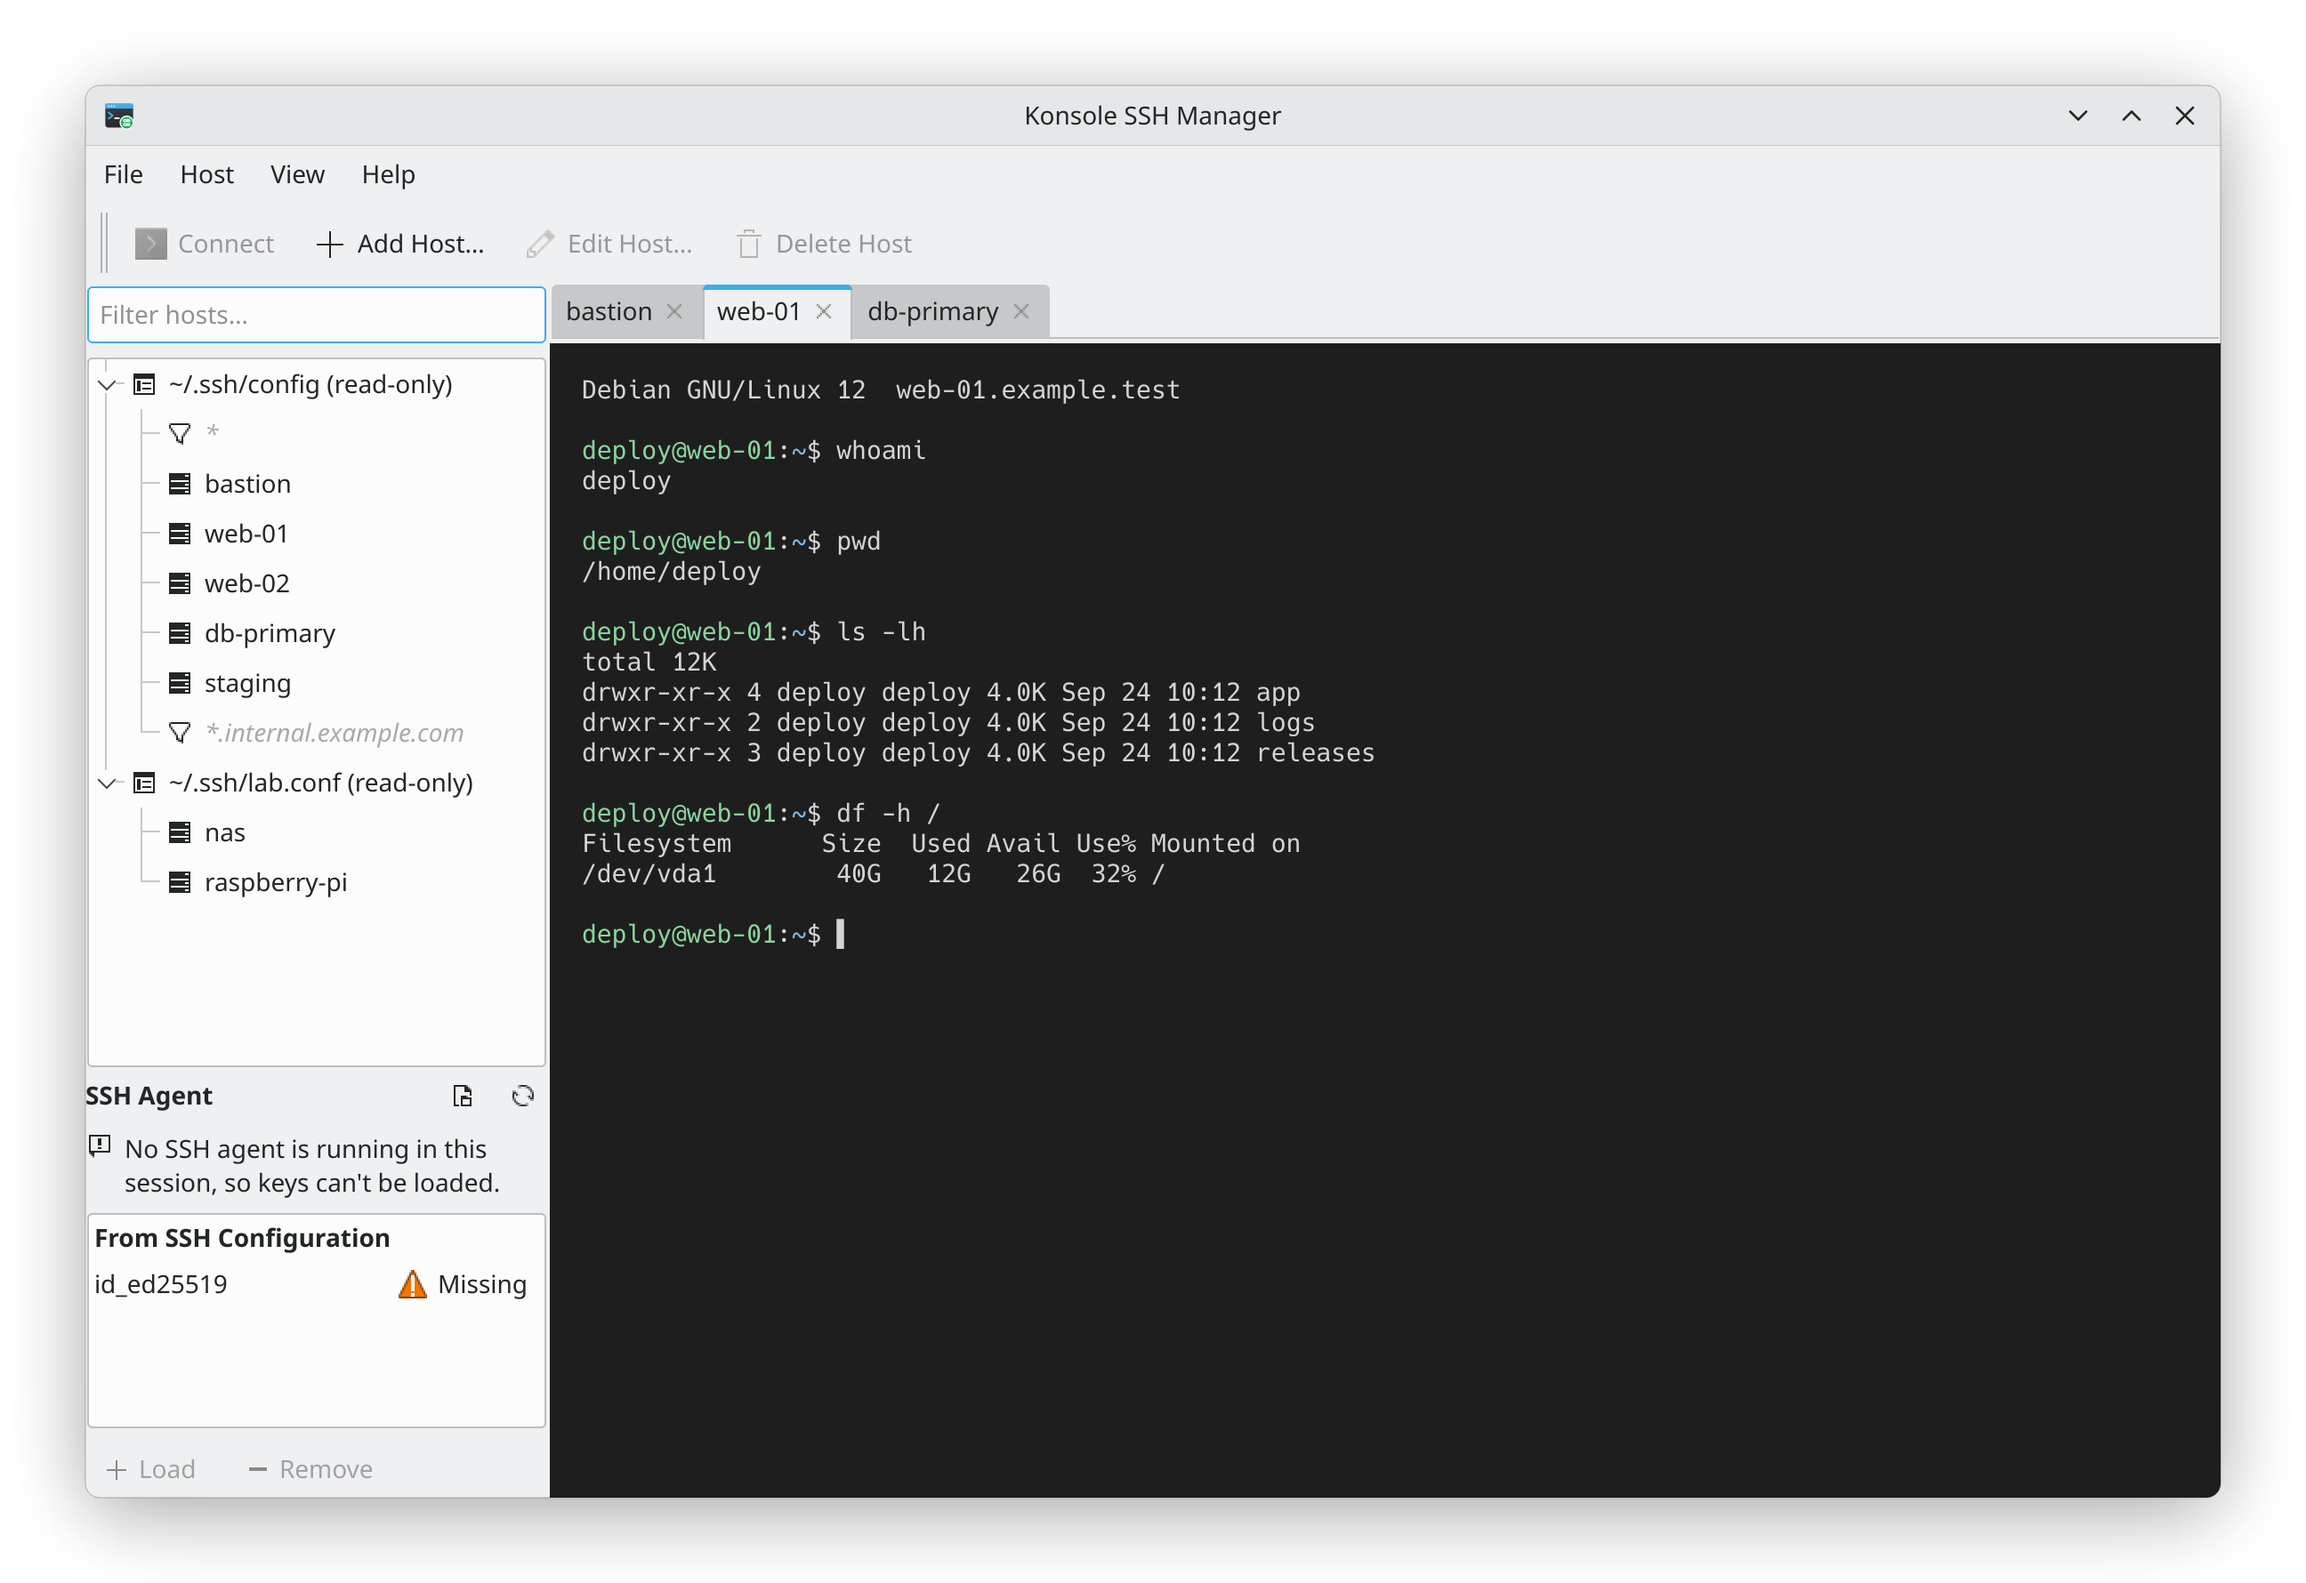
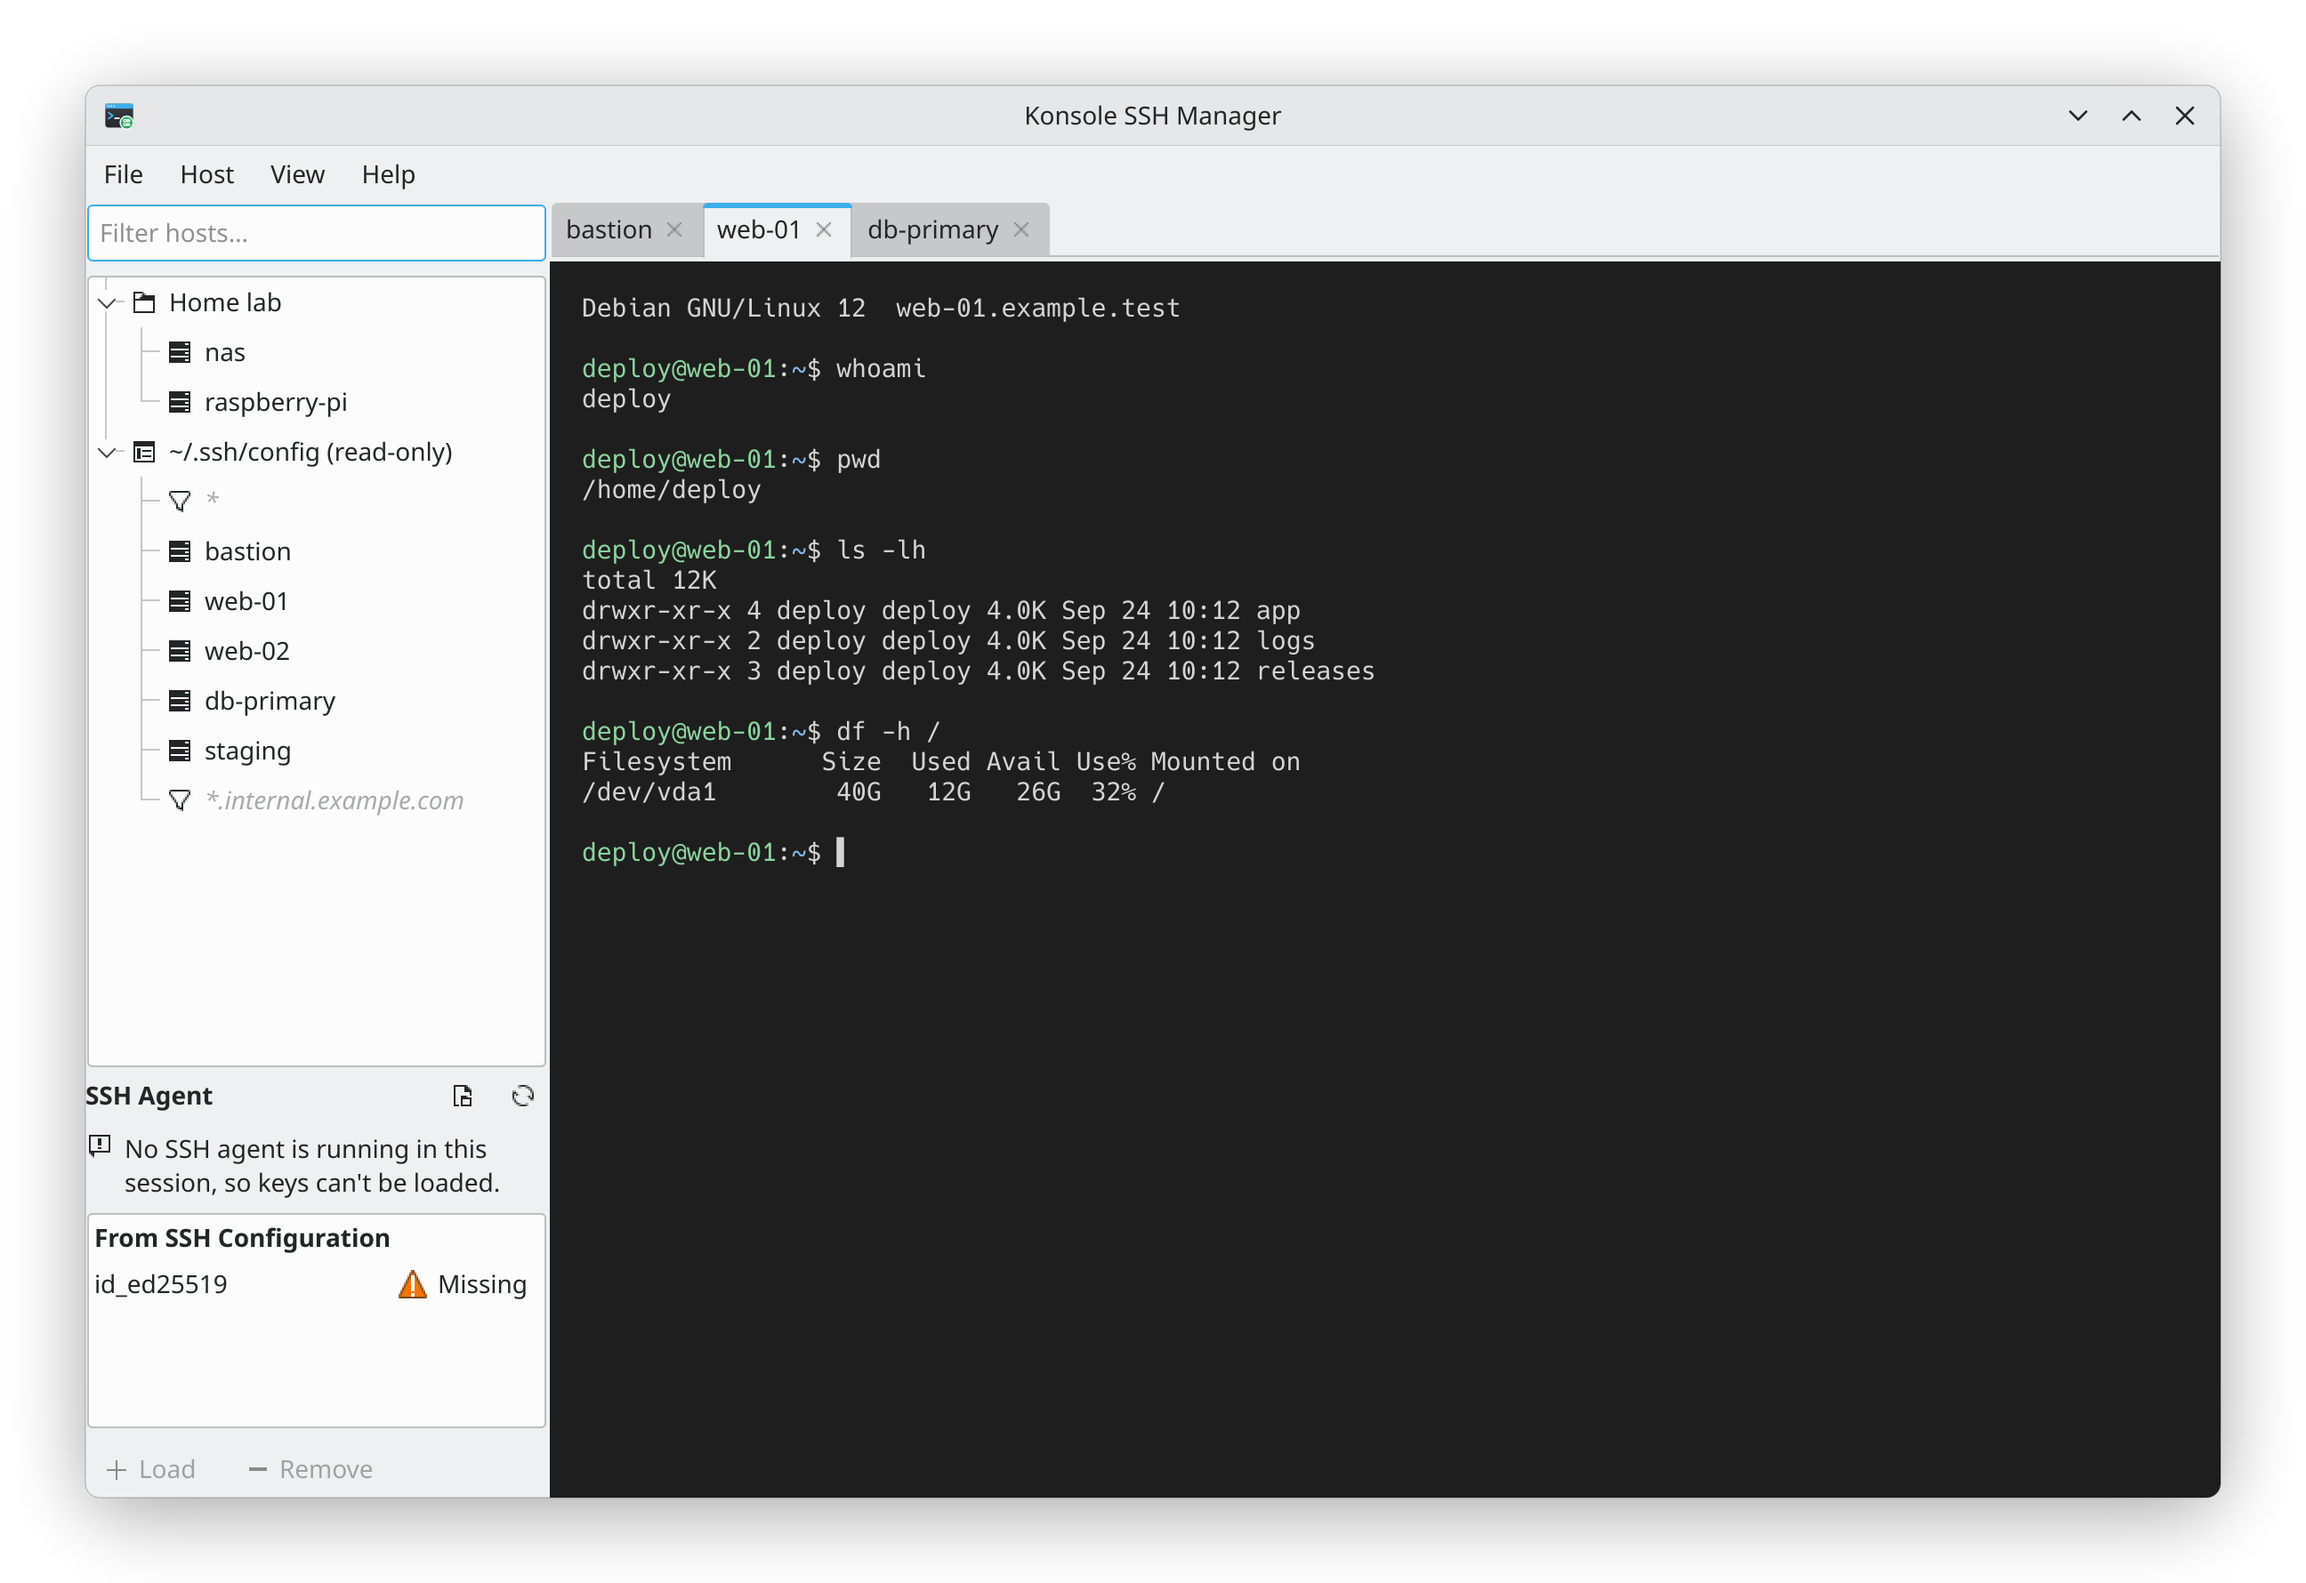
docs: update README screenshot with app-managed hosts and hidden toolbar

Changed region(s): [[0.0312, 0.1236, 0.9688, 0.5562], [0.25, 0.5871, 0.3125, 0.618], [0.0938, 0.5562, 0.125, 0.5871]]

diff --git a/tools/screenshot/screenshot.cpp b/tools/screenshot/screenshot.cpp
@@ -35,6 +35,7 @@
 #include <QTextDocument>
 #include <QTextEdit>
 #include <QTimer>
+#include <QToolBar>
 #include <QTreeWidget>
 
 #include <KAboutData>
@@ -312,6 +313,10 @@ int main(int argc, char **argv)
     MainWindow window(paths);
     if (!addDemoTabs(window, store)) {
         return 1;
+    }
+    // Hidden, as with View > Show Main Toolbar unchecked.
+    if (auto *toolBar = window.findChild<QToolBar *>(QStringLiteral("mainToolBar"))) {
+        toolBar->hide();
     }
     window.show();
 
